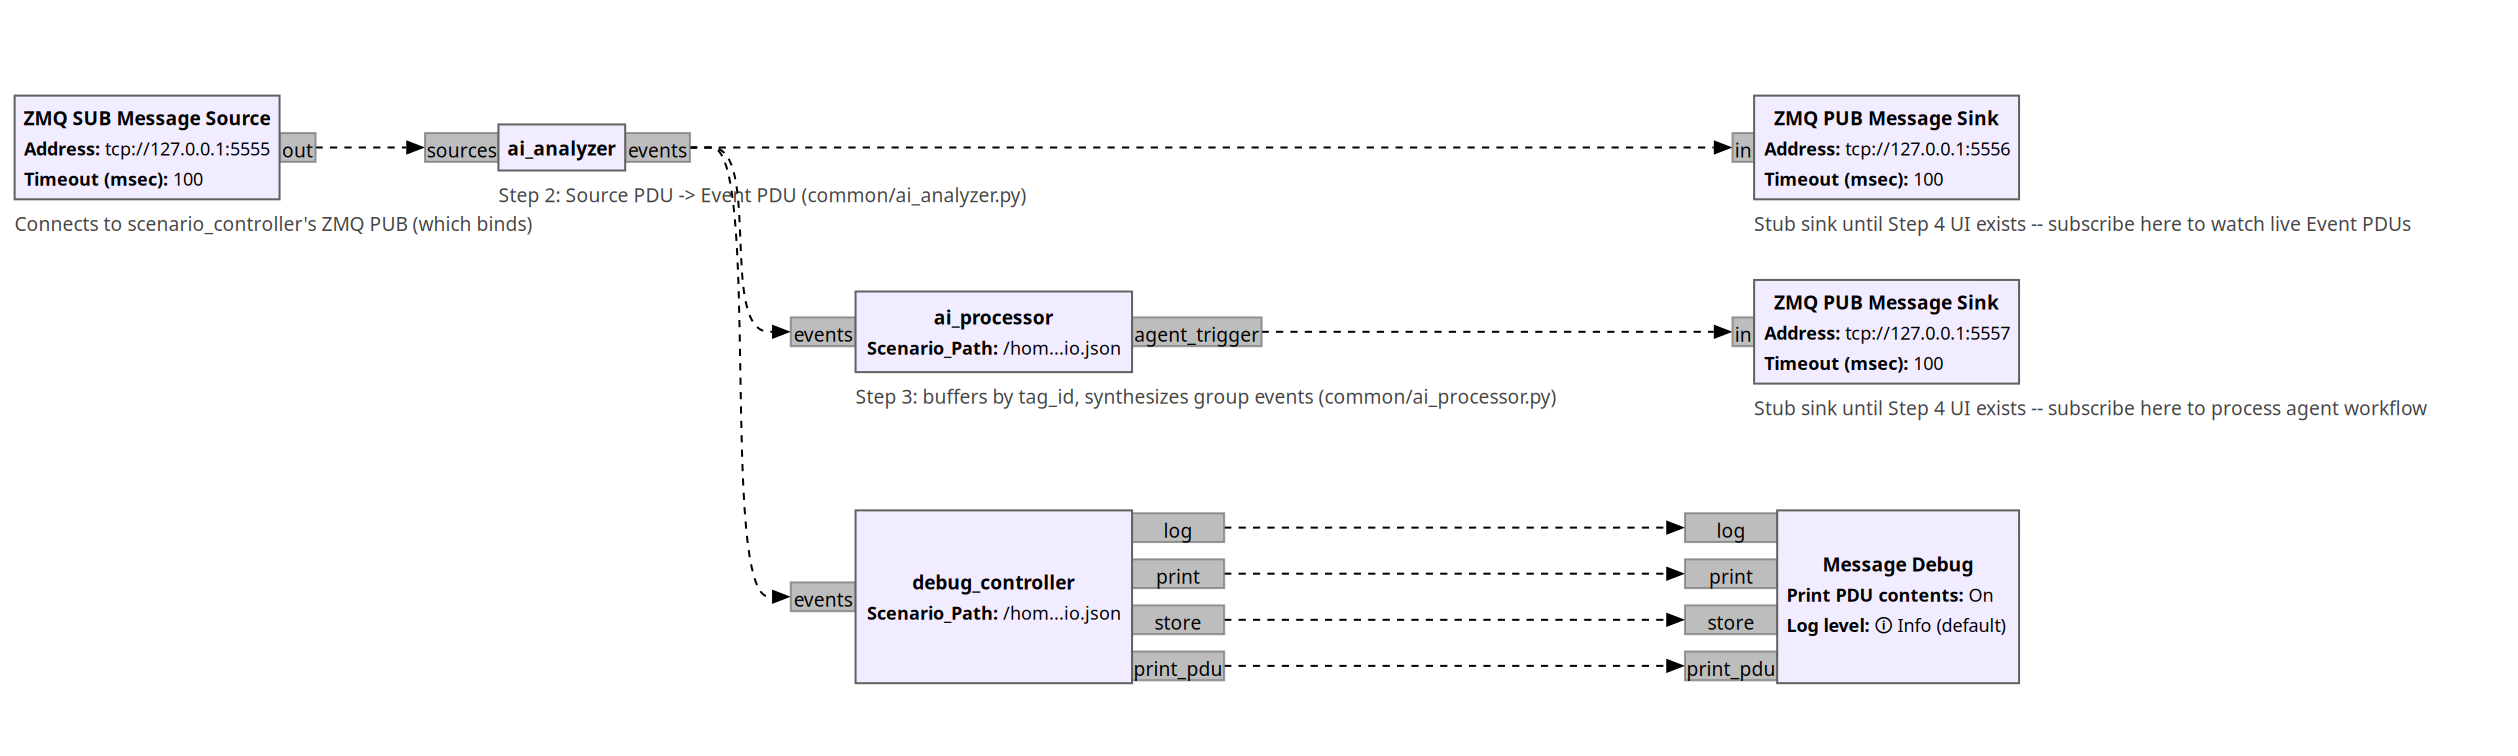
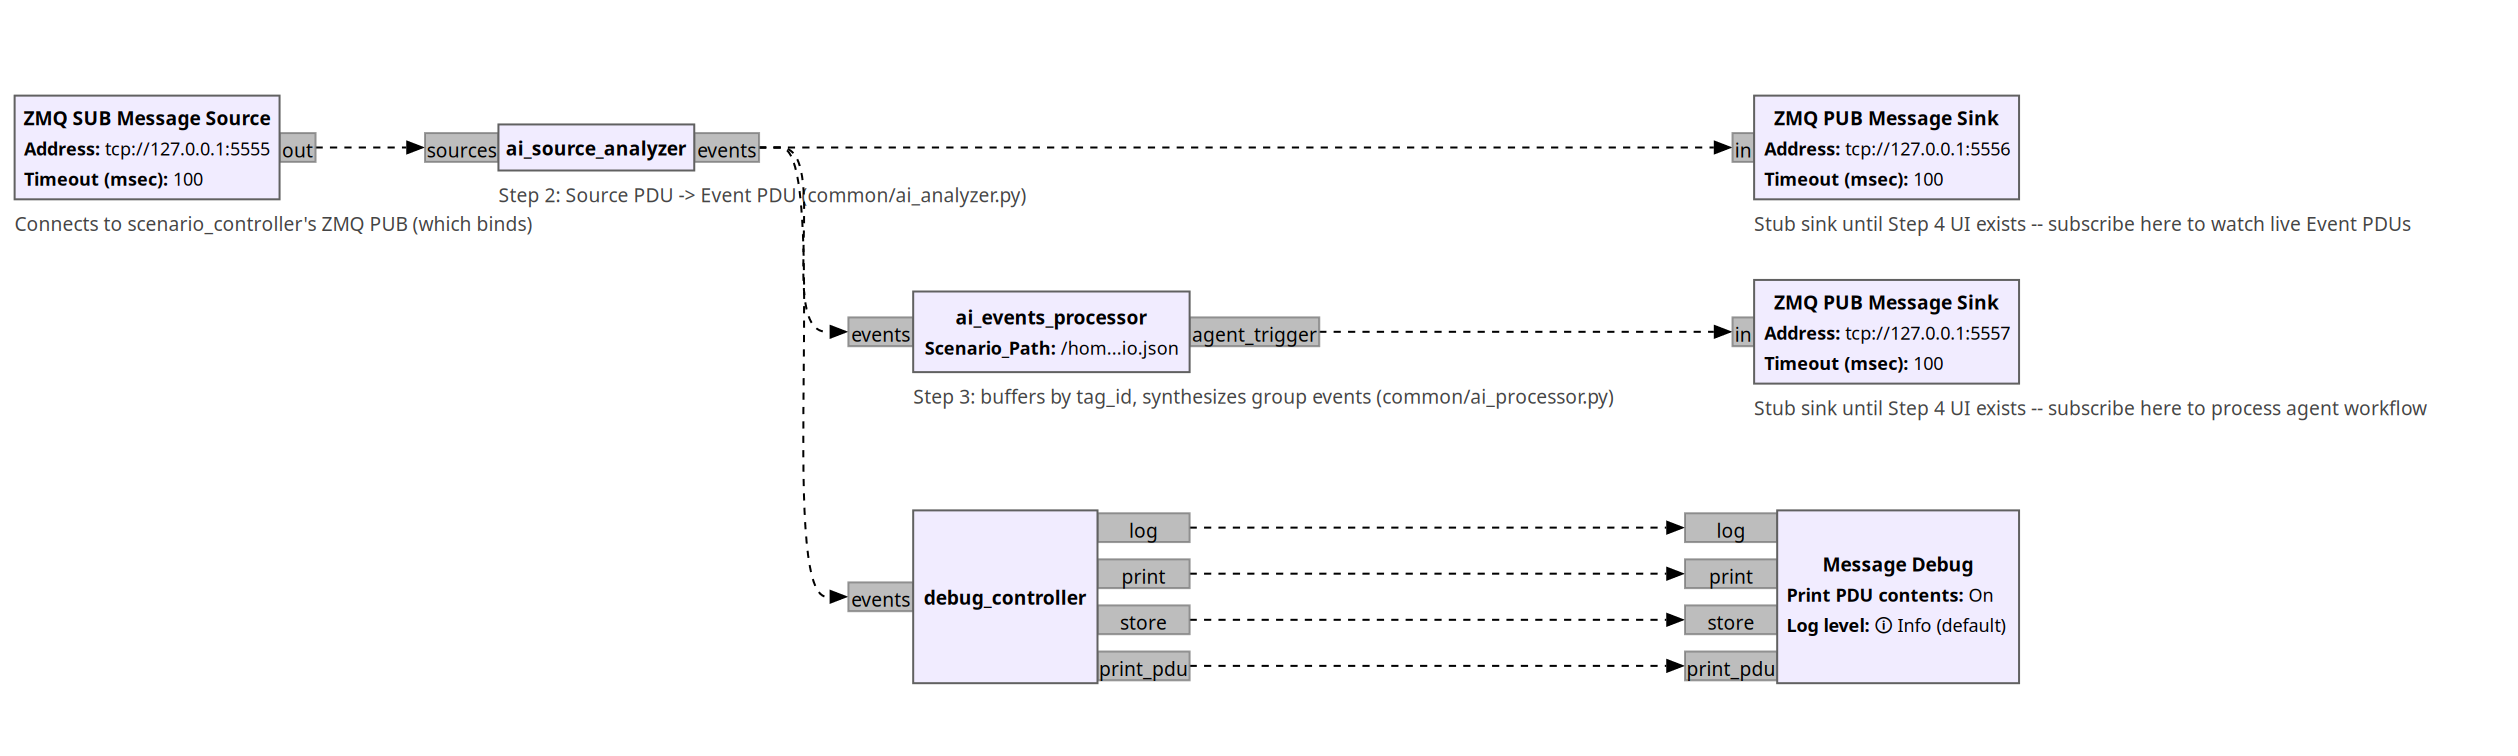
update workflow with fixes

diff --git a/grc/urban_data.py b/grc/urban_data.py
@@ -52,10 +52,10 @@ class urban_data(gr.top_block):
         self.msg_connect((self.epy_block_0, 'events'), (self.epy_block_2, 'events'))
         self.msg_connect((self.epy_block_0, 'events'), (self.zmq_sink_0, 'in'))
         self.msg_connect((self.epy_block_1, 'agent_trigger'), (self.zmq_sink, 'in'))
-        self.msg_connect((self.epy_block_2, 'print_pdu'), (self.message_debug_0, 'print_pdu'))
-        self.msg_connect((self.epy_block_2, 'log'), (self.message_debug_0, 'log'))
-        self.msg_connect((self.epy_block_2, 'print'), (self.message_debug_0, 'print'))
         self.msg_connect((self.epy_block_2, 'store'), (self.message_debug_0, 'store'))
+        self.msg_connect((self.epy_block_2, 'log'), (self.message_debug_0, 'log'))
+        self.msg_connect((self.epy_block_2, 'print_pdu'), (self.message_debug_0, 'print_pdu'))
+        self.msg_connect((self.epy_block_2, 'print'), (self.message_debug_0, 'print'))
         self.msg_connect((self.zmq_source, 'out'), (self.epy_block_0, 'sources'))
 
 

diff --git a/common/debug_controller.py b/common/debug_controller.py
@@ -1,7 +1,7 @@
 """Debug Controller — event tap for live inspection of the Event stream.
 
-Sits alongside the real ai_processor, reading the same Event PDUs from
-ai_analyzer, and splits each one across the four Message Debug ports by
+Sits alongside the real ai_events_processor, reading the same Event PDUs from
+ai_source_analyzer, and splits each one across the four Message Debug ports by
 content:
 - print_pdu: raw PDU, always
 - print:     human-readable one-line summary, always

diff --git a/grc/urban_data_epy_block_0.py b/grc/urban_data_epy_block_0.py
@@ -6,14 +6,14 @@ sys.path.insert(0, URBAN_DATA_ROOT)
 
 import pmt
 from gnuradio import gr
-from common.ai_analyzer import AnalyzerLogic
+from common.ai_source_analyzer import AnalyzerLogic
 
 import numpy as np
 
 
 class blk(gr.basic_block):
     def __init__(self):
-        gr.basic_block.__init__(self, name="ai_analyzer", in_sig=[], out_sig=[])
+        gr.basic_block.__init__(self, name="ai_source_analyzer", in_sig=[], out_sig=[])
         self.logic = AnalyzerLogic()
         self.message_port_register_in(pmt.intern("sources"))
         self.message_port_register_out(pmt.intern("events"))

diff --git a/grc/urban_data_epy_block_1.py b/grc/urban_data_epy_block_1.py
@@ -7,12 +7,12 @@ sys.path.insert(0, URBAN_DATA_ROOT)
 
 import pmt
 from gnuradio import gr
-from common.ai_processor import ProcessorLogic
+from common.ai_events_processor import ProcessorLogic
 
 
 class blk(gr.basic_block):
     def __init__(self, scenario_path=DEFAULT_SCENARIO_PATH):
-        gr.basic_block.__init__(self, name="ai_processor", in_sig=[], out_sig=[])
+        gr.basic_block.__init__(self, name="ai_events_processor", in_sig=[], out_sig=[])
         self.logic = ProcessorLogic(scenario_path)
         self.message_port_register_in(pmt.intern("events"))
         self.message_port_register_out(pmt.intern("agent_trigger"))